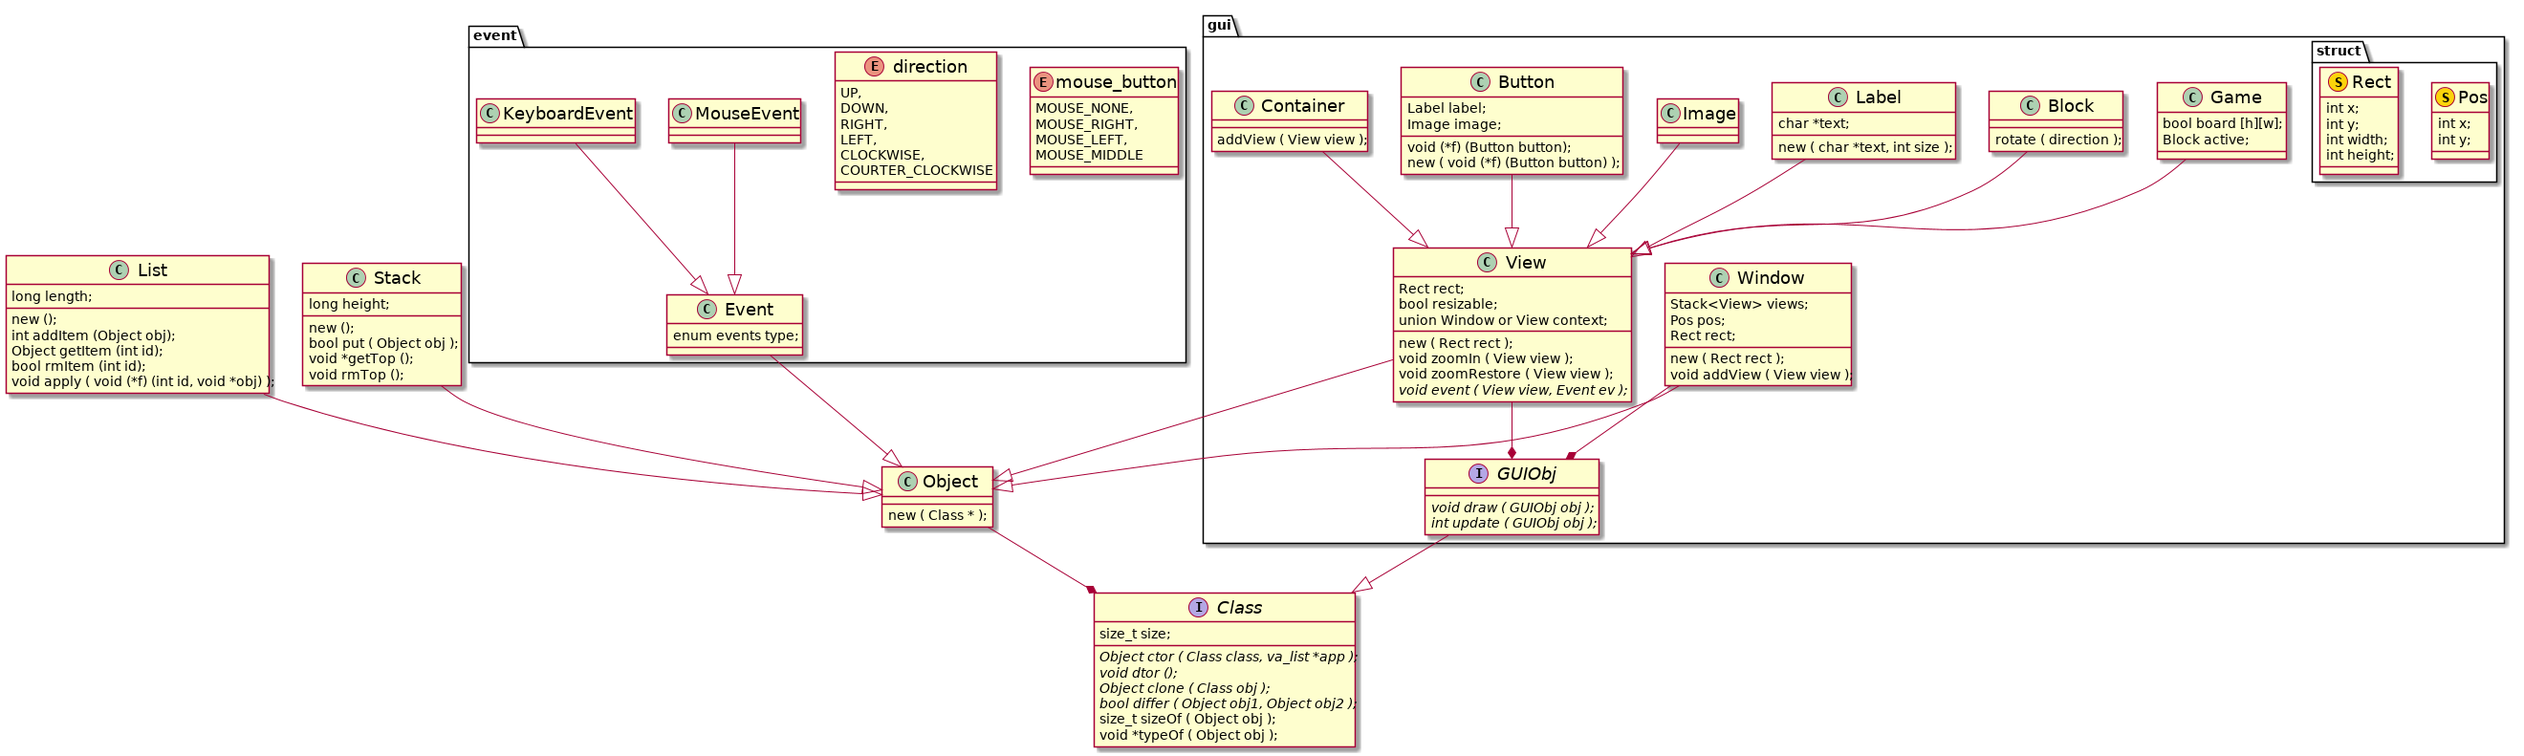
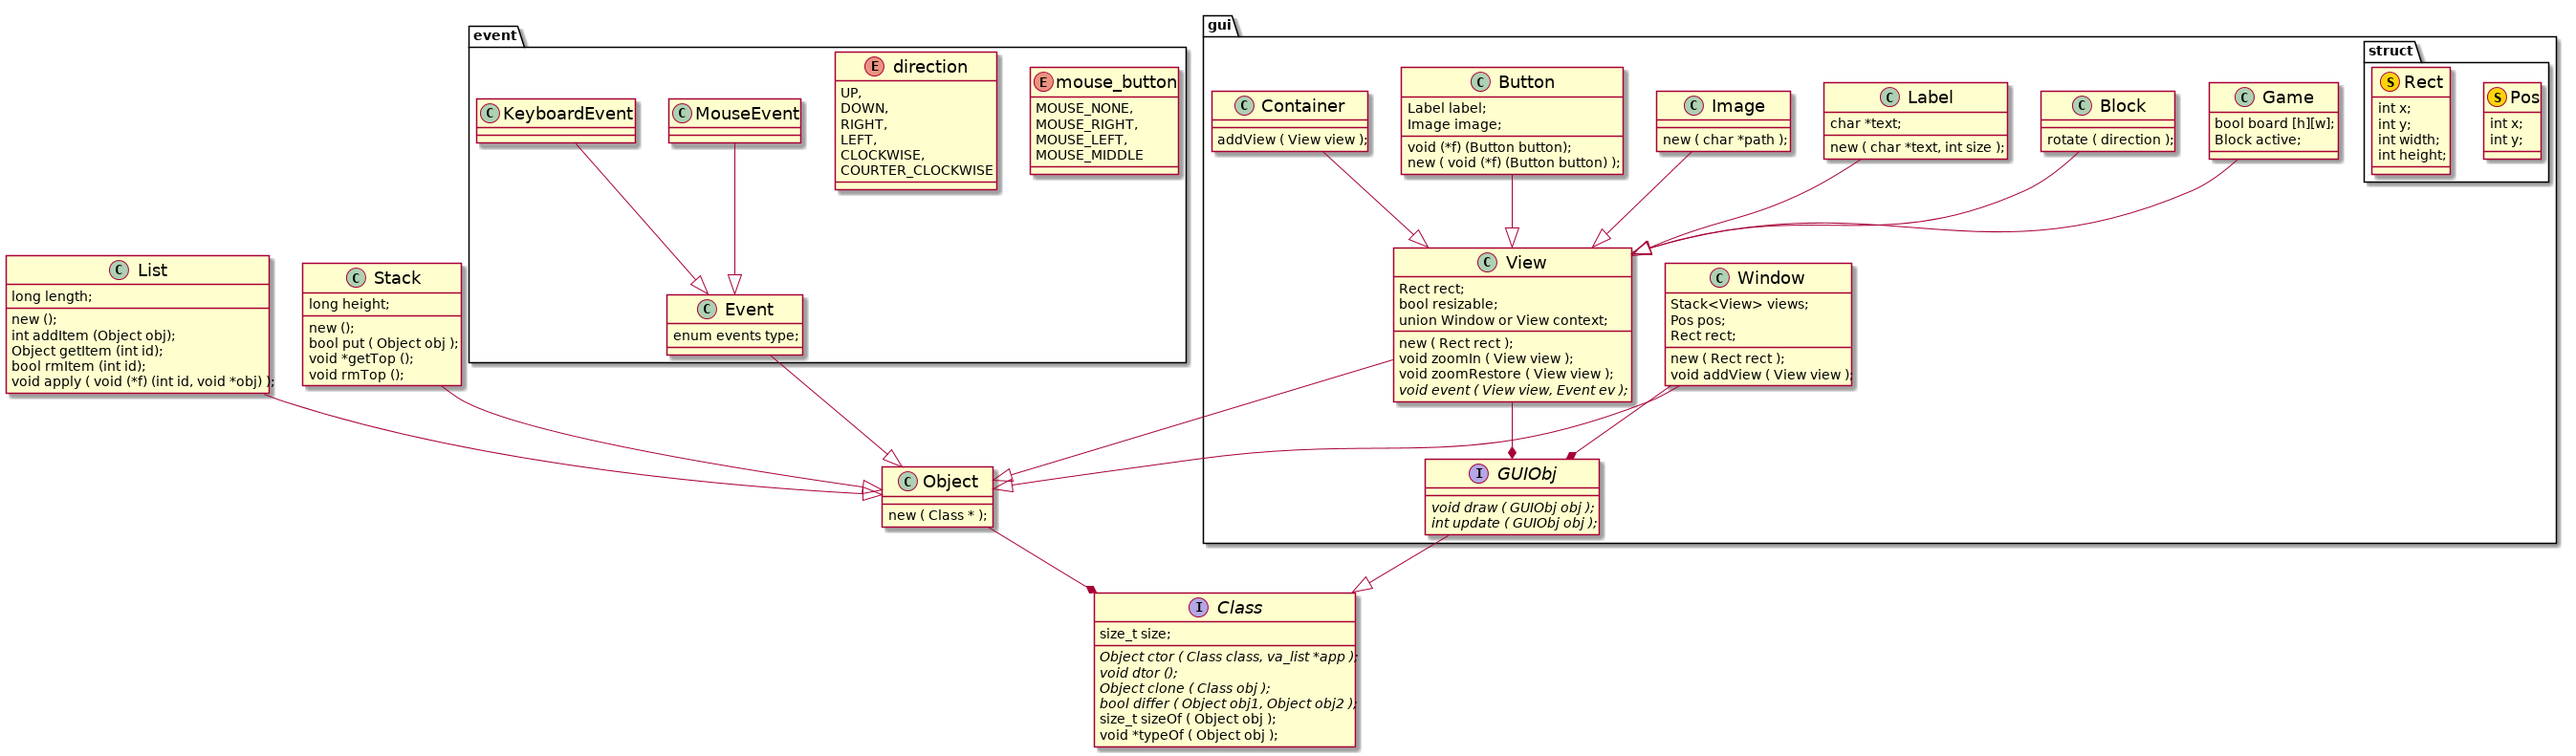
Implement Image class

diff --git a/src/Label.c b/src/Label.c
@@ -1,4 +1,5 @@
 #include <string.h>
+#include <stdlib.h>
 #include <stdarg.h>
 
 #include <allegro5/allegro_font.h>
@@ -25,33 +26,39 @@ static void * _ctor ( void *_self, va_list *app ) {
 
 	struct Label *self = _self;
 	char *text;
-	ALLEGRO_PATH *path;
-	ALLEGRO_FONT *font;
 	int size;
 	Rect r;
 
+	ALLEGRO_PATH *path;
+	ALLEGRO_FONT *font;
+
+	// copy text
 	text = strdup ( va_arg (*app, char *) );
 	size = va_arg ( *app, int );
 
+	// load font
 	path = al_get_standard_path ( ALLEGRO_RESOURCES_PATH );
-	al_append_path_component ( path, "fonts/Overlock/" );
-	al_set_path_filename ( path, "Overlock-Black.ttf" );
-	TRACEF (( "%s", al_path_cstr (path, ALLEGRO_NATIVE_PATH_SEP) ));
+	al_set_path_filename ( path, "fonts/Overlock/Overlock-Black.ttf" );
 	font = al_load_ttf_font ( al_path_cstr (path, ALLEGRO_NATIVE_PATH_SEP), size, 0 );
 	self->font = font;
 	self->text = text;
 
+	// set rectangle width and height
 	r = view_getRect ( self );
 	r.w = al_get_text_width ( font, text );
 	r.h = al_get_font_line_height ( font );
 	view_setRect ( self, r );
-	TRACEF (( "x=%d, y=%d, w=%d, h=%d", r.x, r.y, r.w, r.h ));
-	r = view_getRect ( self );
-	TRACEF (( "x=%d, y=%d, w=%d, h=%d", r.x, r.y, r.w, r.h ));
+
+	al_destroy_path ( path );
 	
 	return _self;
 }
 static void _dtor ( void *_self ) {
+	struct Label *self = _self;
+
+	free ( self->text );
+
+	al_destroy_font ( self->font );
 }
 
 static int _update ( void *obj ) {

diff --git a/src/Image.c b/src/Image.c
@@ -1,0 +1,72 @@
+#include <allegro5/allegro.h>
+#include <assert.h>
+
+#include "GUIObj.r"
+#include "View.r"
+
+#include "View.h"
+
+#include "debug.h"
+
+struct Image {
+	struct View _p;
+	ALLEGRO_BITMAP *image;
+};
+
+static void *_ctor ( void *_self, va_list *app ) {
+	p_ctor ( _self, app );
+
+	struct Image *self = _self;
+	char *name;
+	Rect r;
+
+	ALLEGRO_PATH *path;
+	ALLEGRO_BITMAP *image;
+
+	TRACE;
+	// load image
+	name = va_arg ( *app, char * );
+	path = al_get_standard_path ( ALLEGRO_RESOURCES_PATH );
+	al_append_path_component ( path, "img" );
+	al_set_path_filename ( path, name );
+	image = al_load_bitmap ( al_path_cstr (path, ALLEGRO_NATIVE_PATH_SEP) );
+	TRACEF (( "%s", al_path_cstr (path, ALLEGRO_NATIVE_PATH_SEP) ));
+	assert ( image );
+	TRACE;
+
+	// set rectangle width and height
+	r = view_getRect ( self );
+	r.w = al_get_bitmap_width ( image );
+	r.h = al_get_bitmap_height ( image );
+	view_setRect ( self, r );
+	TRACE;
+
+	self->image = image;
+
+	return _self;
+}
+static void _dtor ( void *_self ) {
+	struct Image *self = _self;
+
+	al_destroy_bitmap ( self->image );
+}
+
+static int _update ( void *_self ) {
+	return 0;
+}
+static void _draw ( void *_self ) {
+	struct Image *self = _self;
+	al_draw_bitmap ( self->image, 0, 0, 0 );
+}
+
+struct GUIObj _Image = {
+	sizeof ( struct Image ),
+	_ctor,
+	_dtor,
+	NULL,
+	NULL,
+	_update,
+	_draw
+};
+
+void *Image = &_Image;

diff --git a/src/main.c b/src/main.c
@@ -2,6 +2,7 @@
 #include <allegro5/allegro_font.h>
 #include <allegro5/allegro_ttf.h>
 #include <allegro5/allegro_primitives.h>
+#include <allegro5/allegro_image.h>
 
 #include "Class.h"
 #include "GUIObj.h"
@@ -9,6 +10,7 @@
 #include "View.h"
 #include "Container.h"
 #include "Label.h"
+#include "Image.h"
 
 #include "macros.h"
 #include "test.h"
@@ -23,6 +25,7 @@ int main ( int argc, char **argv ) {
 	al_init_primitives_addon ();
 	al_init_font_addon ();
 	al_init_ttf_addon ();
+	al_init_image_addon ();
 
 	al_install_mouse ();
 	al_install_keyboard ();
@@ -48,7 +51,7 @@ void game_loop ( void ) {
 	void *window = new ( Window, (Rect) {0, 0, 720, 480} );
 	view = new ( View, (Rect) {10, 10, 100, 100} );
 	cont_addView ( container, view );
-	view = new ( View, (Rect) {400, 400, 100, 100} );
+	view = new ( Image, (Rect) {400, 400, 100, 100}, "test_image.png" );
 	cont_addView ( container, view );
 	view = new ( Label, (Rect) {200, 0, 100, 100}, "some example text", 20 );
 	cont_addView ( container, view );

diff --git a/include/Image.h b/include/Image.h
@@ -1,0 +1,6 @@
+#ifndef _IMAGE_H_
+#define _IMAGE_H_
+
+extern void *Image;
+
+#endif
